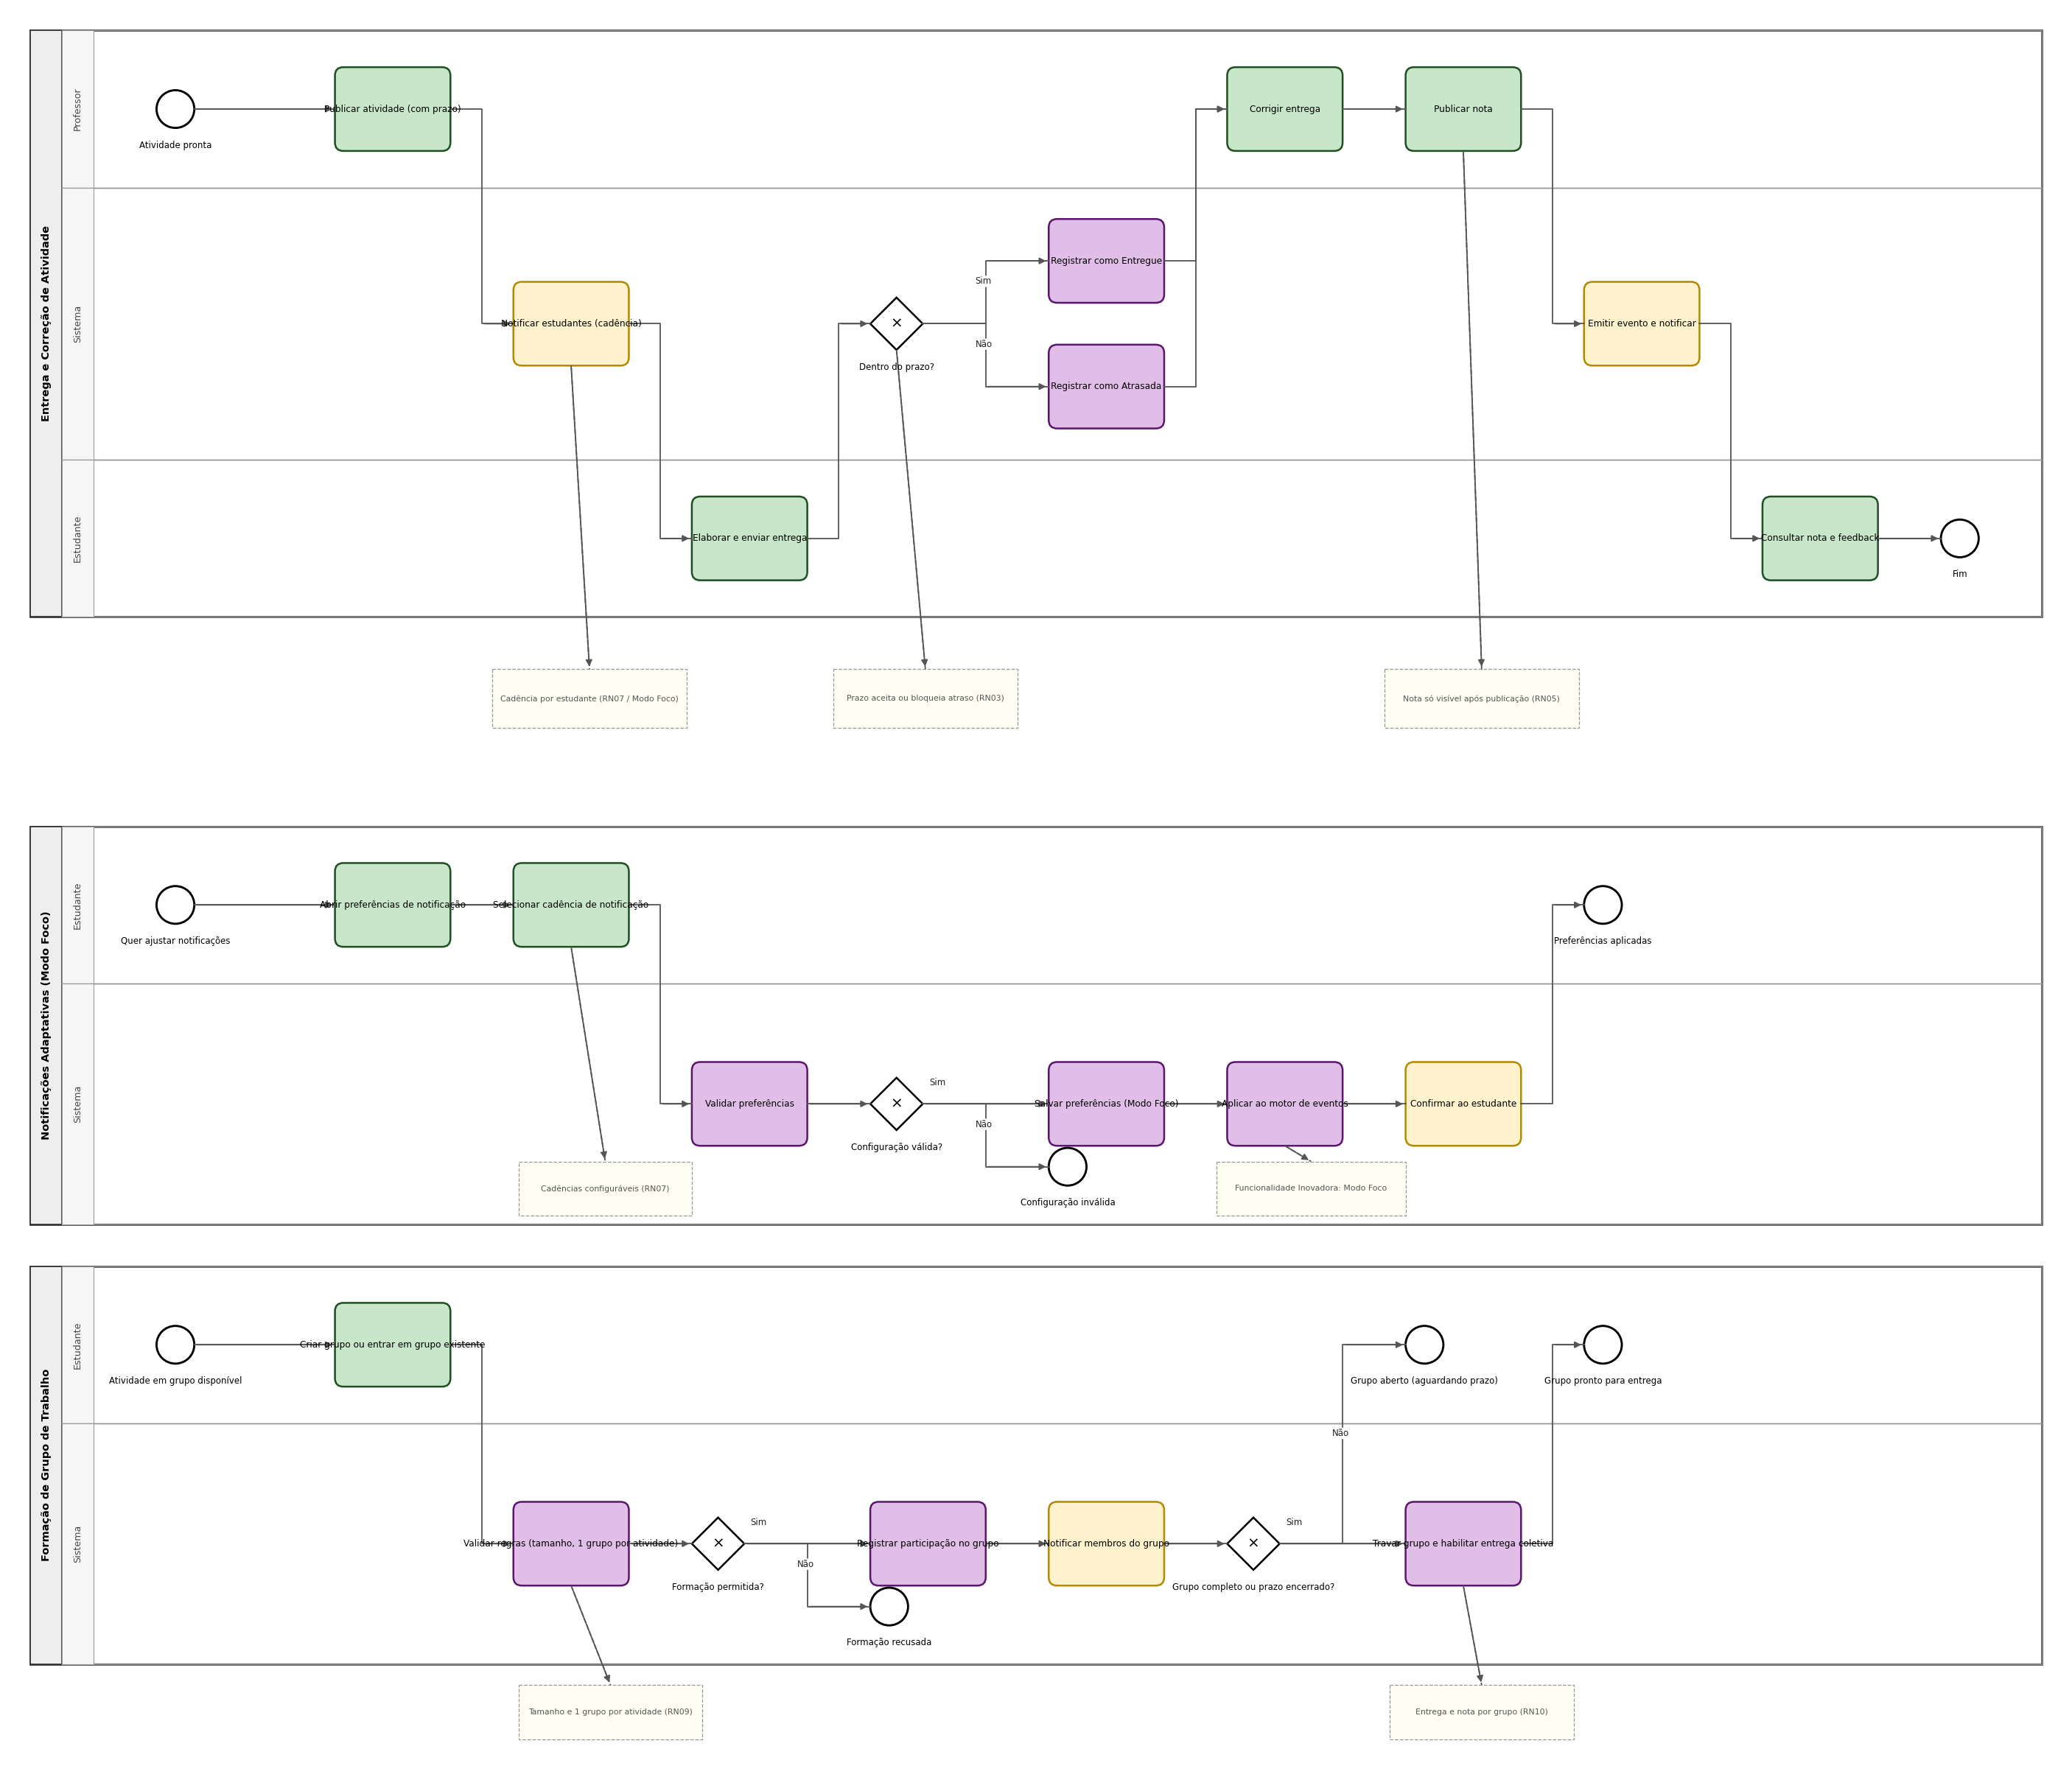
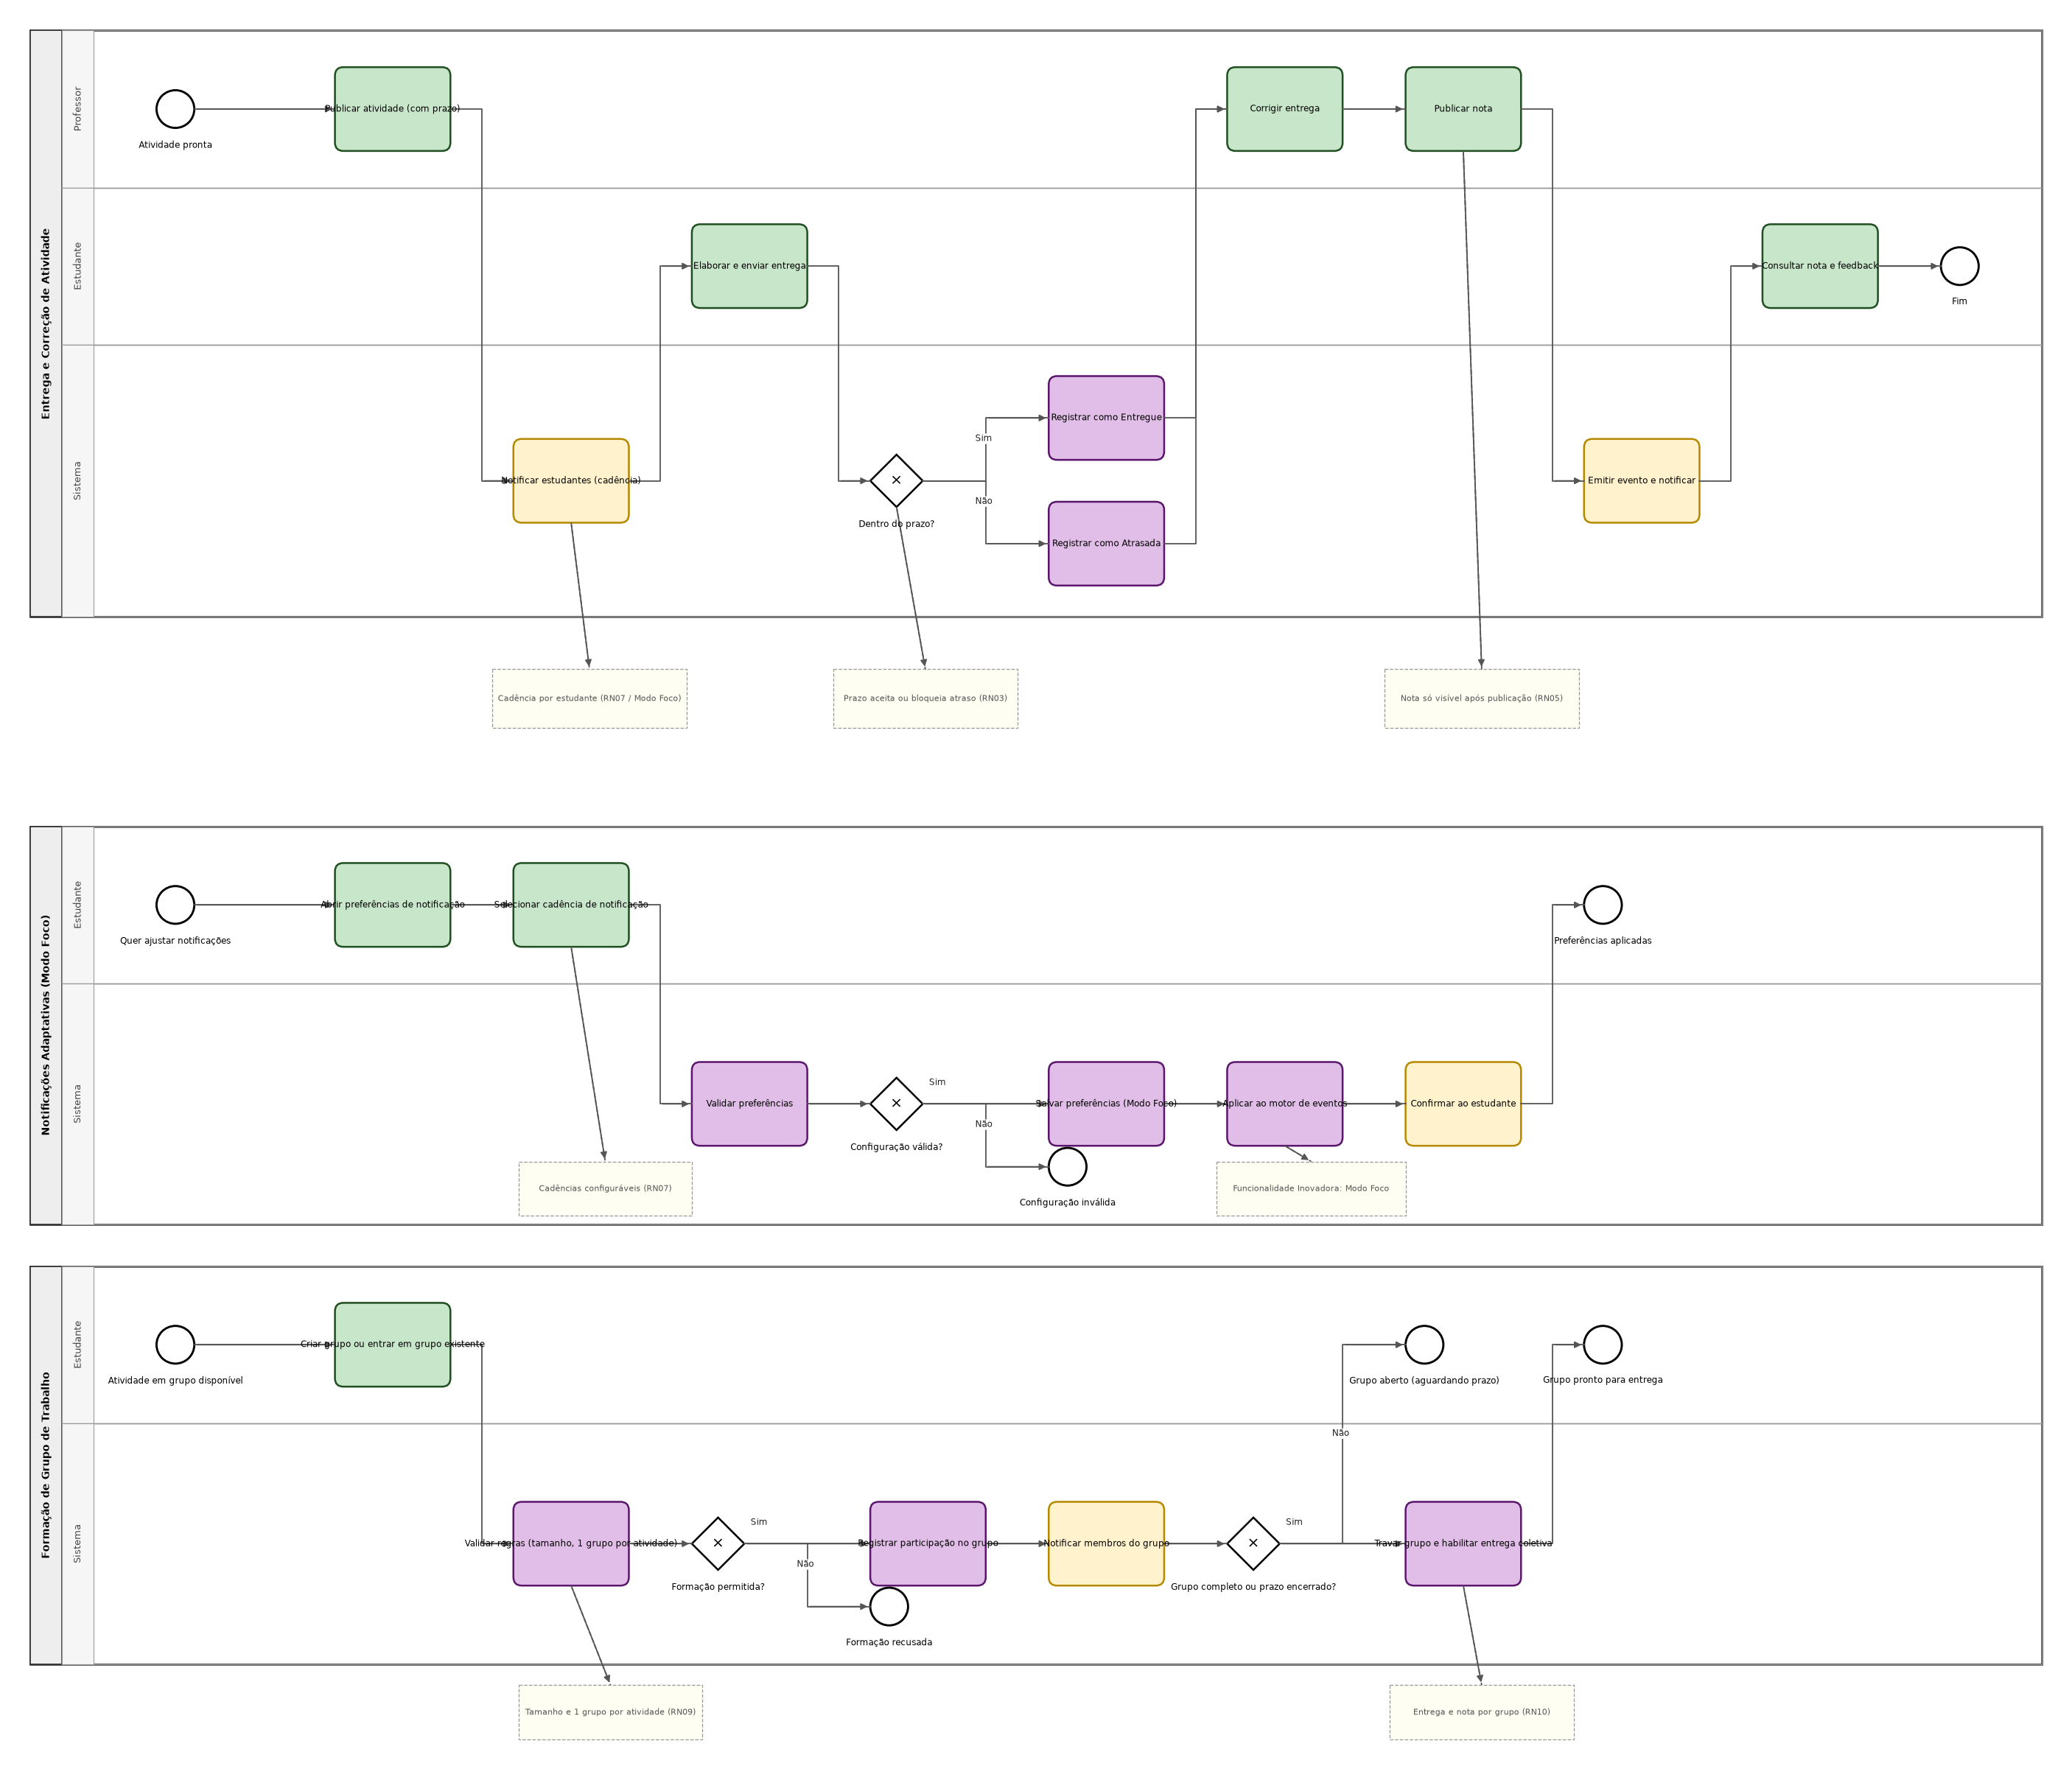
docs: sincroniza backlog e sprint com a inovação de Grupos de Trabalho e faz limpezas
Correções de consistência e manutenção encontradas na revisão do repositório:

- backlog-kanban.csv: adiciona o épico "Grupos de Trabalho" e as stories
  US09/US10 (faltavam, embora sejam parte do MVP); corrige "8 histórias" -> 10
  e "RN05 RN06" -> "RN05 e RN06" (sem vírgula, para não quebrar o CSV).
- sprint.md: passa a refletir as DUAS inovações (Modo Foco + Grupos de
  Trabalho) nas decisões e registra o esforço transversal de Grupos de Trabalho.
- README.md e render_pdf.py: preenchem o link do repositório (placeholder).
- gen_bpmn.py: remove código morto (el_node, processes_cur, add_datastore/
  add_dataout e o tratamento de datastore/dataout, nunca usados); troca
  exporter "Claude AI" por nome neutro; padroniza a ordem das raias do
  Processo 1 para Professor/Estudante/Sistema (igual ao .md, ao PNG e ao Mermaid).
- .gitignore: corrige typo "renderiados" -> "renderizados".
- Regenera ENTREGA-catedra.pdf, catedra-processos.bpmn e o preview.

Claude-Session: https://claude.ai/code/session_01PDEd3FS9xkZ891tTpwqRFu

diff --git a/scripts/gen_bpmn.py b/scripts/gen_bpmn.py
@@ -41,7 +41,7 @@ shapes = {}   # id -> dict(x,y,w,h,label,fill,stroke,stype,marker)
 edges = {}    # id -> dict(src,tgt,name,wp=[(x,y)..],label_xy)
 pools = []    # dict(id,name,proc,x,y,w,h)
 lanes = []    # dict(id,name,pool,x,y,w,h,refs=[])
-processes = {}  # proc_id -> dict(name, nodes=[], flows=[], lanes=[], annos=[], assocs=[], datastores=[], dataouts=[])
+processes = {}  # proc_id -> dict(name, nodes=[], flows=[], lanes=[], annos=[], assocs=[])
 
 def col_x(c):
     return X0 + c * COL_W
@@ -62,7 +62,7 @@ def add_pool(pid, name, proc_id, y, lane_specs):
     """lane_specs: list of (lane_id, lane_name, height, [centers dict])"""
     total_h = sum(h for _, _, h, _ in lane_specs)
     processes[proc_id] = dict(name=name, nodes=[], flows=[], lanes=[],
-                              annos=[], assocs=[], datastores=[], dataouts=[])
+                              annos=[], assocs=[])
     p = dict(id=pid, name=name, proc=proc_id, y=y, h=total_h)
     pools.append(p)
     cur = y
@@ -119,19 +119,6 @@ def add_anno(proc_id, aid, text, x, y, w, h, attach_to):
     edges[assoc_id] = dict(src=attach_to, tgt=aid, name="", dashed=True,
                            wp=[(sx, sy), (ax, ay)], label_xy=None)
 
-def add_datastore(proc_id, dsid, name, x, y):
-    shapes[dsid] = dict(x=x, y=y, w=50, h=50, label=name, stype="datastore",
-                        fill="#ffffff", stroke="#666666", marker=None)
-    processes[proc_id]["datastores"].append(dict(id=dsid, name=name))
-
-def add_dataout(proc_id, doid, src_task, datastore):
-    processes[proc_id]["dataouts"].append(dict(id=doid, task=src_task, ds=datastore))
-    s = shapes[src_task]; d = shapes[datastore]
-    sx = s["x"] + s["w"]/2; sy = s["y"] + s["h"]
-    dx = d["x"] + d["w"]/2; dy = d["y"]
-    edges[doid] = dict(src=src_task, tgt=datastore, name="", dashed=True,
-                       wp=[(sx, sy), (dx, dy)], label_xy=None)
-
 # ----------------------------------------------------------------------
 # Roteamento ortogonal de arestas (Z-route)
 # ----------------------------------------------------------------------
@@ -156,8 +143,8 @@ def route(src, tgt):
 P1 = "Process_EntregaCorrecao"
 add_pool("Pool_EntregaCorrecao", "Entrega e Correção de Atividade", P1, 80,
          [("Lane_Professor", "Professor", 150, None),
-          ("Lane_SistemaEC", "Sistema", 260, None),
-          ("Lane_Estudante", "Estudante", 150, None)])
+          ("Lane_Estudante", "Estudante", 150, None),
+          ("Lane_SistemaEC", "Sistema", 260, None)])
 
 # nós
 add_node(P1, "Start_AtividadePronta", "event", "start", "Lane_Professor", 0, "mid",
@@ -312,22 +299,6 @@ for l in lanes:
 # ======================================================================
 # EMISSÃO DO XML
 # ======================================================================
-def el_node(n):
-    tag = {"start": "startEvent", "end": "endEvent",
-           "userTask": "userTask", "serviceTask": "serviceTask",
-           "sendTask": "sendTask", "exclusiveGateway": "exclusiveGateway"}[n["kind"]]
-    name = escape(n["name"])
-    lines = [f'    <bpmn:{tag} id="{n["id"]}" name="{name}">']
-    for i in n["inc"]:
-        lines.append(f'      <bpmn:incoming>{i}</bpmn:incoming>')
-    for o in n["out"]:
-        lines.append(f'      <bpmn:outgoing>{o}</bpmn:outgoing>')
-    # data output association (dentro da serviceTask)
-    for do in processes_cur["dataouts"] if False else []:
-        pass
-    lines.append(f'    </bpmn:{tag}>')
-    return "\n".join(lines)
-
 def build_process_xml(proc_id):
     pr = processes[proc_id]
     out = [f'  <bpmn:process id="{proc_id}" name="{escape(pr["name"])}" isExecutable="true">']
@@ -340,13 +311,7 @@ def build_process_xml(proc_id):
             out.append(f'        <bpmn:flowNodeRef>{ref}</bpmn:flowNodeRef>')
         out.append('      </bpmn:lane>')
     out.append('    </bpmn:laneSet>')
-    # data stores
-    for ds in pr["datastores"]:
-        out.append(f'    <bpmn:dataStoreReference id="{ds["id"]}" name="{escape(ds["name"])}" />')
     # nós
-    dataouts_by_task = {}
-    for do in pr["dataouts"]:
-        dataouts_by_task.setdefault(do["task"], []).append(do)
     for n in pr["nodes"]:
         tag = {"start": "startEvent", "end": "endEvent",
                "userTask": "userTask", "serviceTask": "serviceTask",
@@ -356,10 +321,6 @@ def build_process_xml(proc_id):
             out.append(f'      <bpmn:incoming>{i}</bpmn:incoming>')
         for o in n["out"]:
             out.append(f'      <bpmn:outgoing>{o}</bpmn:outgoing>')
-        for do in dataouts_by_task.get(n["id"], []):
-            out.append(f'      <bpmn:dataOutputAssociation id="{do["id"]}">')
-            out.append(f'        <bpmn:targetRef>{do["ds"]}</bpmn:targetRef>')
-            out.append('      </bpmn:dataOutputAssociation>')
         out.append(f'    </bpmn:{tag}>')
     # fluxos
     for f in pr["flows"]:
@@ -390,7 +351,7 @@ def build_di():
         out.append('      </bpmndi:BPMNShape>')
     # nós (shapes)
     for nid, s in shapes.items():
-        if s["stype"] in ("anno", "datastore"):
+        if s["stype"] == "anno":
             continue
         color_attr = ""
         if s["stype"] == "task" or (s["stype"] == "gateway"):
@@ -407,16 +368,6 @@ def build_di():
             out.append('        <bpmndi:BPMNLabel>')
             out.append(f'          <dc:Bounds x="{lx}" y="{ly}" width="90" height="27" />')
             out.append('        </bpmndi:BPMNLabel>')
-        out.append('      </bpmndi:BPMNShape>')
-    # datastores
-    for nid, s in shapes.items():
-        if s["stype"] != "datastore":
-            continue
-        out.append(f'      <bpmndi:BPMNShape id="{nid}_di" bpmnElement="{nid}">')
-        out.append(f'        <dc:Bounds x="{int(s["x"])}" y="{int(s["y"])}" width="50" height="50" />')
-        out.append('        <bpmndi:BPMNLabel>')
-        out.append(f'          <dc:Bounds x="{int(s["x"]-30)}" y="{int(s["y"]+52)}" width="110" height="27" />')
-        out.append('        </bpmndi:BPMNLabel>')
         out.append('      </bpmndi:BPMNShape>')
     # anotações
     for nid, s in shapes.items():
@@ -440,8 +391,6 @@ def build_di():
     out.append('  </bpmndi:BPMNDiagram>')
     return "\n".join(out)
 
-processes_cur = None  # (compat; não usado)
-
 header = ('<?xml version="1.0" encoding="UTF-8"?>\n'
           '<bpmn:definitions '
           'xmlns:bpmn="http://www.omg.org/spec/BPMN/20100524/MODEL" '
@@ -452,7 +401,7 @@ header = ('<?xml version="1.0" encoding="UTF-8"?>\n'
           'xmlns:color="http://www.omg.org/spec/BPMN/non-normative/color/1.0" '
           'xmlns:camunda="http://camunda.org/schema/1.0/bpmn" '
           'id="Definitions_Catedra" targetNamespace="http://bpmn.io/schema/bpmn" '
-          'exporter="Claude AI" exporterVersion="1.0">')
+          'exporter="Catedra BPMN Generator" exporterVersion="1.0">')
 
 collab = ['  <bpmn:collaboration id="Collaboration_Catedra">']
 for p in pools:
@@ -537,10 +486,6 @@ def draw():
             ax.add_patch(Circle((cx, cy), s["w"]/2, facecolor="#fff",
                                 edgecolor=s["stroke"], lw=1.6))
             ax.text(cx, s["y"]+s["h"]+12, s["label"], ha="center", va="top", fontsize=6.5)
-        elif st == "datastore":
-            ax.add_patch(Rectangle((s["x"], s["y"]), s["w"], s["h"], facecolor="#fafafa",
-                                   edgecolor="#666", lw=1.0))
-            ax.text(cx, s["y"]+s["h"]+10, s["label"], ha="center", va="top", fontsize=6, color="#444")
         elif st == "anno":
             ax.add_patch(Rectangle((s["x"], s["y"]), s["w"], s["h"], facecolor="#fffef2",
                                    edgecolor="#999", lw=0.7, linestyle="--"))

diff --git a/scripts/render_pdf.py b/scripts/render_pdf.py
@@ -51,7 +51,7 @@ integrantes = (
 story.append(Paragraph(integrantes, value))
 
 story.append(Paragraph("Link do GitHub", label))
-story.append(Paragraph("[inserir link do repositório]", value))
+story.append(Paragraph("https://github.com/victorgschneider/catedra", value))
 
 story.append(Paragraph("Link do Gestor de Projetos", label))
 story.append(Paragraph("[inserir link do GitHub Projects]", value))

diff --git a/docs/sprint.md b/docs/sprint.md
@@ -17,17 +17,24 @@ projetar (BPMN, casos de uso, arquitetura, C4, decisões) o sistema Cátedra.
 > A evidência individual fica registrada no histórico de commits do GitHub e na
 > movimentação dos cartões do quadro (GitHub Projects).
 
+> A inovação de **Grupos de Trabalho** (colaboração) foi um esforço
+> **transversal**: permeia requisitos (RN04/RN09/RN10), histórias (US09/US10),
+> modelagem (processo *Formação de Grupo* no BPMN) e arquitetura (módulo do
+> monólito + eventos no pub-sub). O roteiro de apresentação
+> (`apresentacao/roteiro.md`) foi consolidado pela equipe.
+
 ## Principais decisões tomadas
 
 1. **Escolha do estilo arquitetural híbrido** (camadas + publish-subscribe) em
    vez de microserviços, por ser proporcional ao contexto de uma instituição
    (ver ADR-001).
-2. **Funcionalidade inovadora = Modo Foco** (camada adaptativa de engajamento),
-   escolhida por atacar uma lacuna real dos concorrentes e por ter alta
-   viabilidade técnica.
-3. **Recorte enxuto do MVP**: incluir apenas a fatia barata e de maior impacto
-   do diferencial (cadência de notificação + painel de carga), adiando as partes
-   caras.
+2. **Duas funcionalidades inovadoras** — **Modo Foco** (camada adaptativa de
+   engajamento) e **Grupos de Trabalho** (camada de colaboração) —, escolhidas
+   por atacarem lacunas reais dos concorrentes e por terem alta viabilidade técnica.
+3. **Recorte enxuto do MVP**: dos diferenciais, incluir apenas a fatia barata e
+   de maior impacto (do Modo Foco, a cadência de notificação + painel de carga;
+   dos Grupos de Trabalho, formar grupo + entrega/nota por grupo), adiando as
+   partes caras.
 4. **Stack** Vue + FastAPI + PostgreSQL, por domínio da equipe e adequação ao
    desenho em camadas.
 

diff --git a/README.md b/README.md
@@ -25,7 +25,7 @@ recebe informação e gerencia tarefas, reduzindo sobrecarga e evasão.
 
 ## Links
 
-- **Repositório GitHub:** <!-- PREENCHER -->
+- **Repositório GitHub:** <https://github.com/victorgschneider/catedra>
 - **Gestor de Projetos (GitHub Projects):** <!-- PREENCHER -->
 
 ## Estrutura do repositório